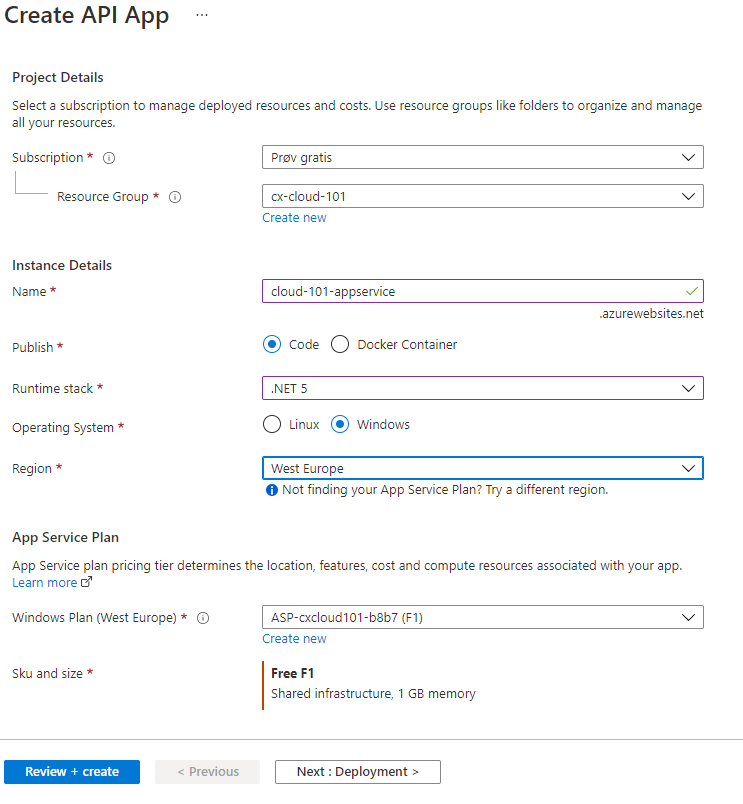
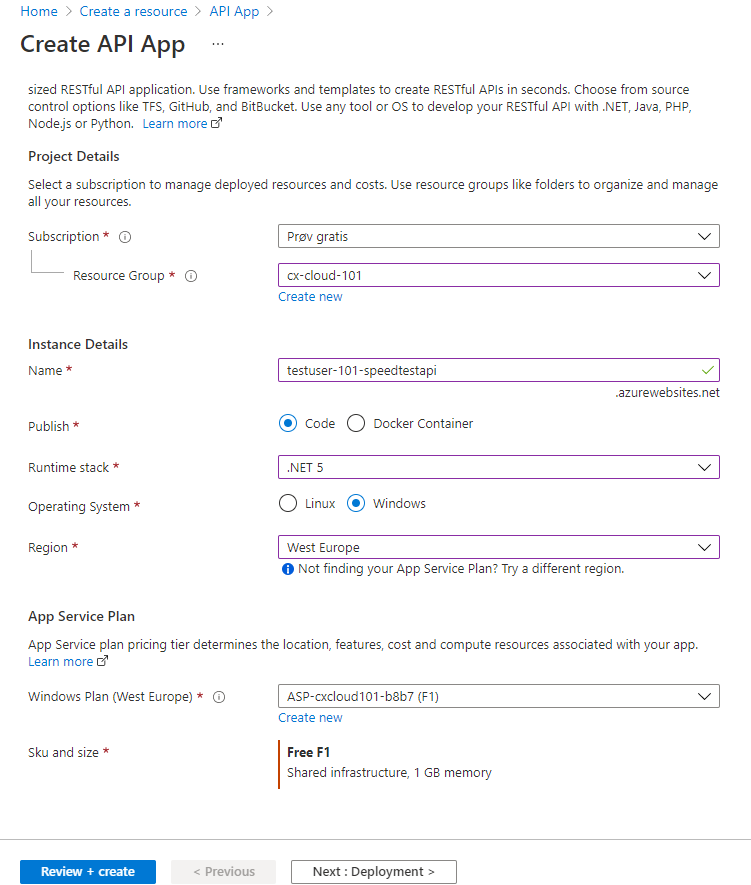
Changes to an-api-for-all-things and receiving-speed + new images

diff --git a/azure/receiving-speeds.md b/azure/receiving-speeds.md
@@ -34,8 +34,6 @@ Let's test our new route. Run SpeedTestApi with `dotnet run`, boot up [Postman](
 
 ![postman-1](images/postman-1.png)
 
-We can get away with just posting parts of a TestResult. This is because we're not validating the contents of the TestResult we're receiving. This is usually a bad thing when creating APIs. Luckily we can solve this by using [DataAnnotations](https://docs.microsoft.com/en-us/aspnet/core/tutorials/first-mvc-app/validation?view=aspnetcore-2.1).
-
 ```json
 {
 	"user": "cloud-101-testuser",
@@ -46,6 +44,9 @@ We can get away with just posting parts of a TestResult. This is because we're n
 	}
 }
 ```
+We can get away with just posting parts of a TestResult. This is because we're not validating the contents of the TestResult we're receiving. This is usually a bad thing when creating APIs. Luckily we can solve this by using [DataAnnotations](https://docs.microsoft.com/en-us/aspnet/core/tutorials/first-mvc-app/validation?view=aspnetcore-2.1).
+
+
 
 Adding DataAnnotations to TestResult and friends
 ------------------------------------------------
@@ -209,7 +210,7 @@ Logging in ASP.NET Core
 Before we try to send data from the logger to the API, we probably should implement some form of logging, so SpeedTestApi can inform us that it has received a TestResult. One way of doing this is just to use `Console.WriteLine(...)` like we did in the logger, but [ASP.NET Core supports a logging API](https://docs.microsoft.com/en-us/aspnet/core/fundamentals/logging/?view=aspnetcore-3.1) out of the box, so instead we'll try to be fancy this time.
 
 ### Injecting an instance of ILogger
-Most things in ASP.NET Core is composed using [dependency injection](https://docs.microsoft.com/en-us/aspnet/core/fundamentals/dependency-injection?view=aspnetcore-3.1). This means, without going into details, that ASP.NET Core can supply our controller (and other classes) with instances of objects we want to use for different things. This can be home made objects, like a database service for storing and retrieving information from a database, or built in objects, like the instance of `ILogger` that we need to use the logging API.
+Most things in ASP.NET Core is composed using [dependency injection](https://docs.microsoft.com/en-us/aspnet/core/fundamentals/dependency-injection?view=aspnetcore-3.1). This means, without going into details, that ASP.NET Core can supply our controller (and other classes) with instances of objects we want to use for different things. This can be homemade objects, like a database service for storing and retrieving information from a database, or built in objects, like the instance of `ILogger` that we need to use the logging API.
 
 Open SpeedTestController again, and add a using-statement declaring that we want to use the logging extensions in Microsoft.Extensions.Logging.
 
@@ -303,7 +304,7 @@ ApiUrl = new Uri(configuration["speedTestApiUrl"]);
 ```
 
 ### A client for POSTing TestResults
-Now we can start writing the code responsible for POSTing TestResults to SpeedTestApi. Create a new file and class called SpeedTestApi in SpeedTestLogger. We want it to contain an instance of System.Net.Http.HttpClient (a built-in class for performing http-requests), and we want that instance to be configures with the speedTestApiUrl. An instance of HttpClient holds on to some system resources, so we want to make sure that we dispose, or "clean up", that instance when we're done with it. The usual way of doing this is to implement the IDisposable interface, signalling that instances of SpeedTestApiClient should be disposed, and handling clean-up of the HttpClient instance there.
+Now we can start writing the code responsible for POSTing TestResults to SpeedTestApi. Create a new file and class called SpeedTestApi in SpeedTestLogger. We want it to contain an instance of System.Net.Http.HttpClient (a built-in class for performing http-requests), and we want that instance to be configured with the speedTestApiUrl. An instance of HttpClient holds on to some system resources, so we want to make sure that we dispose, or "clean up", that instance when we're done with it. The usual way of doing this is to implement the IDisposable interface, signalling that instances of SpeedTestApiClient should be disposed, and handling clean-up of the HttpClient instance there.
 
 ```csharp
 using System;
@@ -376,7 +377,7 @@ private async Task<bool> PostTestResult(StringContent result)
 
 A POST-request can't send objects, so we need to serialize our TestResult as JSON with `JsonSerializer.Serialize(result)`. We also add some request headers to the POST-request, declaring that we're sending JSON-data, encoded in UTF8.
 
-`_client.PostAsync("/speedtest", result);` can fail, so we do some basic error-handling if that occurs.
+`_client.PostAsync("/speedtest", result);` can also fail, so we do some basic error-handling if that occurs.
 
 _Note how the previous functions are marked `async`, and use the `await`-keyword? This is en example of how to do [asynchronous programming in C#](https://docs.microsoft.com/en-us/dotnet/csharp/programming-guide/concepts/async/). We'll see a lot more of this going forward._
 
@@ -469,13 +470,15 @@ info: SpeedTestApi.Controllers.SpeedTestController[0]
 
 Putting it all up on Azure
 --------------------------
-Add and commit all changes to SpeedTestApi and then push to master. This will trigger a new deployment of testuser-speedtest-api on Azure. You can view in-progress deployments under "Deployment center".
+Add and commit all changes to SpeedTestApi and then push to main. This will trigger a new deployment of testuser-speedtest-api on Azure. You can view in-progress deployments under "Deployment center".
 
-![deployment-center](images/deployment-center-2.png)
+![deployment-center](images/deployment-center-3.png)
+
+<!-- ![deployment-center](images/deployment-center-2.png)
 
 You can also view the build or release in Azure DevOps by following the "Build Pipeline" or "Release Pipeline" link from the deployment center.
 
-![deployment-center](images/azure-devops.png)
+![deployment-center](images/azure-devops.png) -->
 
 When the deployment is a success, its time to test it all out. Try a quick POST with Postman first to check that all is well. Then update speedTestApiUrl in appsettings.json with the URL of your Azure API App.
 

diff --git a/azure/an-api-for-all-things.md b/azure/an-api-for-all-things.md
@@ -219,7 +219,7 @@ Search for "API App" and select API App from the list of results. Then press "Cr
 
 ![api-app-2](images/api-app-2.png)
 
-Give the new API App a nice name. This have to be unique across azure, since it determines the URL of your API. username-speedtest-api is one way to name it.
+Give the new API App a nice name. This have to be unique across azure, since it determines the URL of your API. `username-speedtest-api` is one way to name it.
 
 Also select the existing resource group "cx-cloud-101", and create a new App Service plan named "cloud-101-appservice". For Runtime stack go with .Net 5, and Windows OS. We also need to create the resource in "Europe West" as "Norway East" doesn't support this App for the free subscription type.
 
@@ -228,41 +228,20 @@ Also select the existing resource group "cx-cloud-101", and create a new App Ser
 Then press "Review + create" then "Create" on the next 'leaf' and wait a bit while the new API App is being set up.
 
 <!-- ![api-app-4](images/api-app-5.png) -->
+/When azure is ready a go to resource button pops up. Press it or navigate to the cx-cloud-101 resource group, and open the `username-101-speedtestapi`. 
 
-Navigate to the cx-cloud-101 resource group, and open the App Service "cloud-101-appservice". 
-
-![api-app-4](images/api-app-6.png)
+![api-app-6](images/api-app-6.png)
 
 Make a note of your URL, displayed towards the top right corner. This will be the base path of your new API on Azure.
 
-![api-app-4](images/api-app-7.png)
-
 <!-- Go to "Deployment Center", select GitHub and then authenticate with your GitHub user. Choose "Azure Pipelines (Preview)", select the az-speedtest-api project and master-branch as your deployment source, and give your DevOps organization a decent name. Then continue to the summary-page, and press "Finish". -->
-Go to "Deployment Center", select GitHub and then authenticate with your GitHub user.
-Choose your user as the Organization and the az-speedtest-api as Repository, with Main as the Branch.
+Go to "Deployment Center", select GitHub as source and then authenticate with your GitHub user.
+Change provider to `App Service Build Service`
+Then choose your user as the Organization and the az-speedtest-api as Repository, with Main as the Branch.
 
-![api-app-4](images/api-app-10.png)
+![api-app-10](images/api-app-10.png)
 
-We also need to select the project file so that azure knows which of our projects to build. We can do this in the .yaml file.
-Yaml is a 'human-readable data-serialization language'. It is often used to create configuration files and it is indeed what we are using it for here.
-
-Find the `dotnet build` command in the yaml file and specify which project to build and where to find it. You can do this by adding in the path in the dotnet build command, which you probably recognize.
-
-```shell
-run: dotnet build SpeedTestApi/SpeedTestApi.csproj --configuration Release
-```
-Do the same for dotnet publish, and we should be good to go!
-
-TODO: Litt usikker på om du kan gjøre dette når du oppretter fila, jeg fant fila på github å gjorde changes der. 
-
-```shell
-run: dotnet publish SpeedTestApi/SpeedTestApi.csproj -c Release -o ${{env.DOTNET_ROOT}}/myapp
-```
-
-
-![api-yaml-1](images/api_yaml_01.png)
-
-Wait until the deployment finishes, and then visit [https://testuser-speedtest-api.azurewebsites.net/speedtest/ping](https://testuser-speedtest-api.azurewebsites.net/speedtest/ping) (Replace https://testuser-speedtest-api.azurewebsites.net with tha URL from your APP Service/API App)
+Press Save on top of the leafe, and wait until the deployment finishes which you can check under the logs tab. When the deploy is finished visit [https://testuser-speedtest-api.azurewebsites.net/speedtest/ping](https://testuser-speedtest-api.azurewebsites.net/speedtest/ping) (Replace https://testuser-speedtest-api.azurewebsites.net with the URL from your APP Service/API App)
 
 ![azure-ping-pong](images/azure-ping-pong.png)
 
